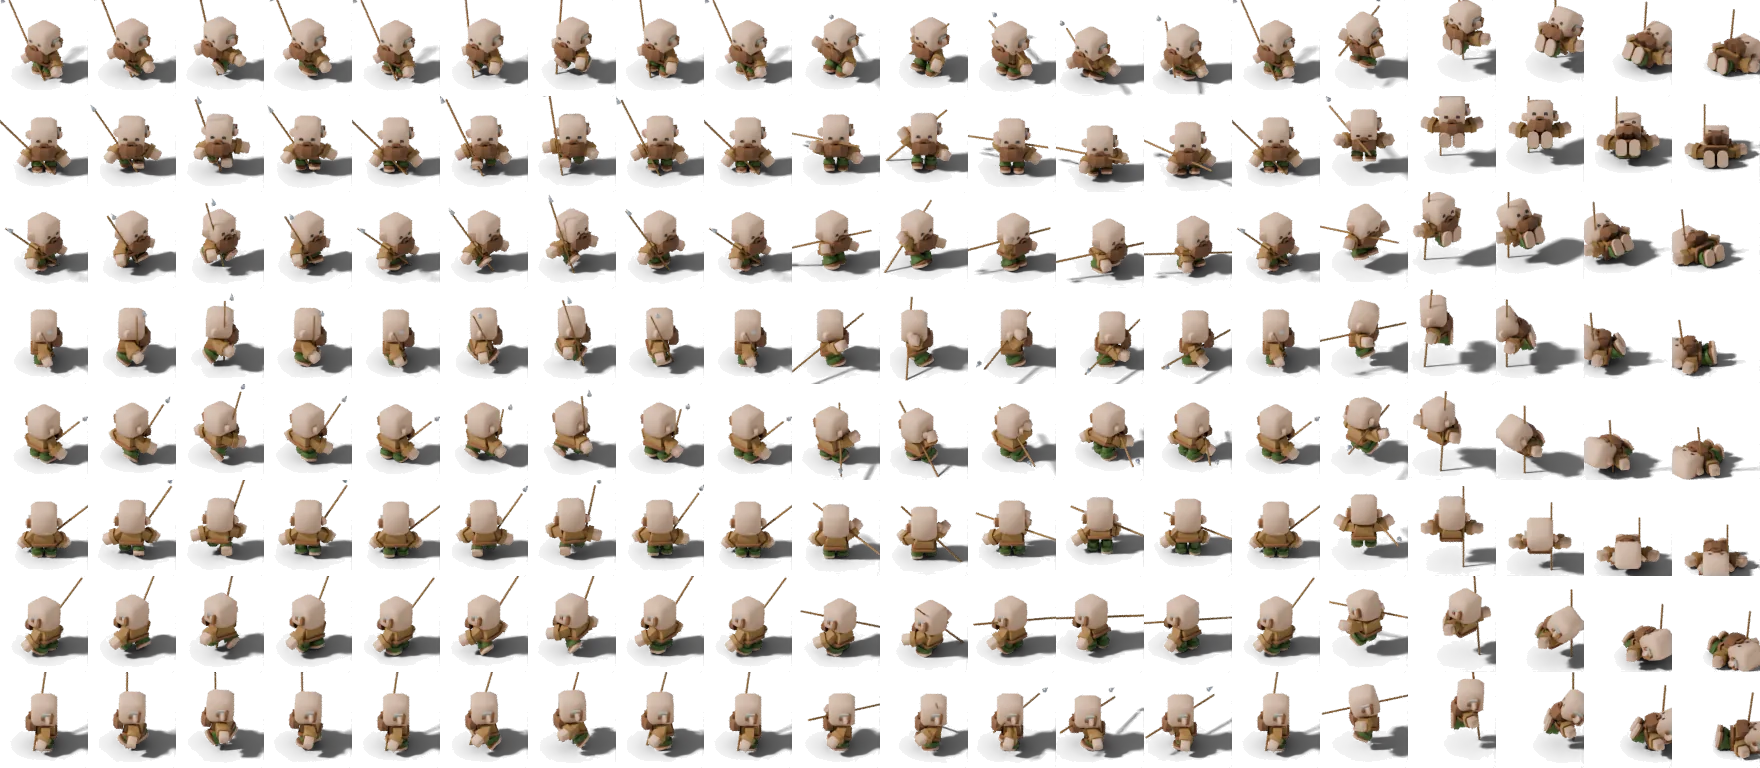
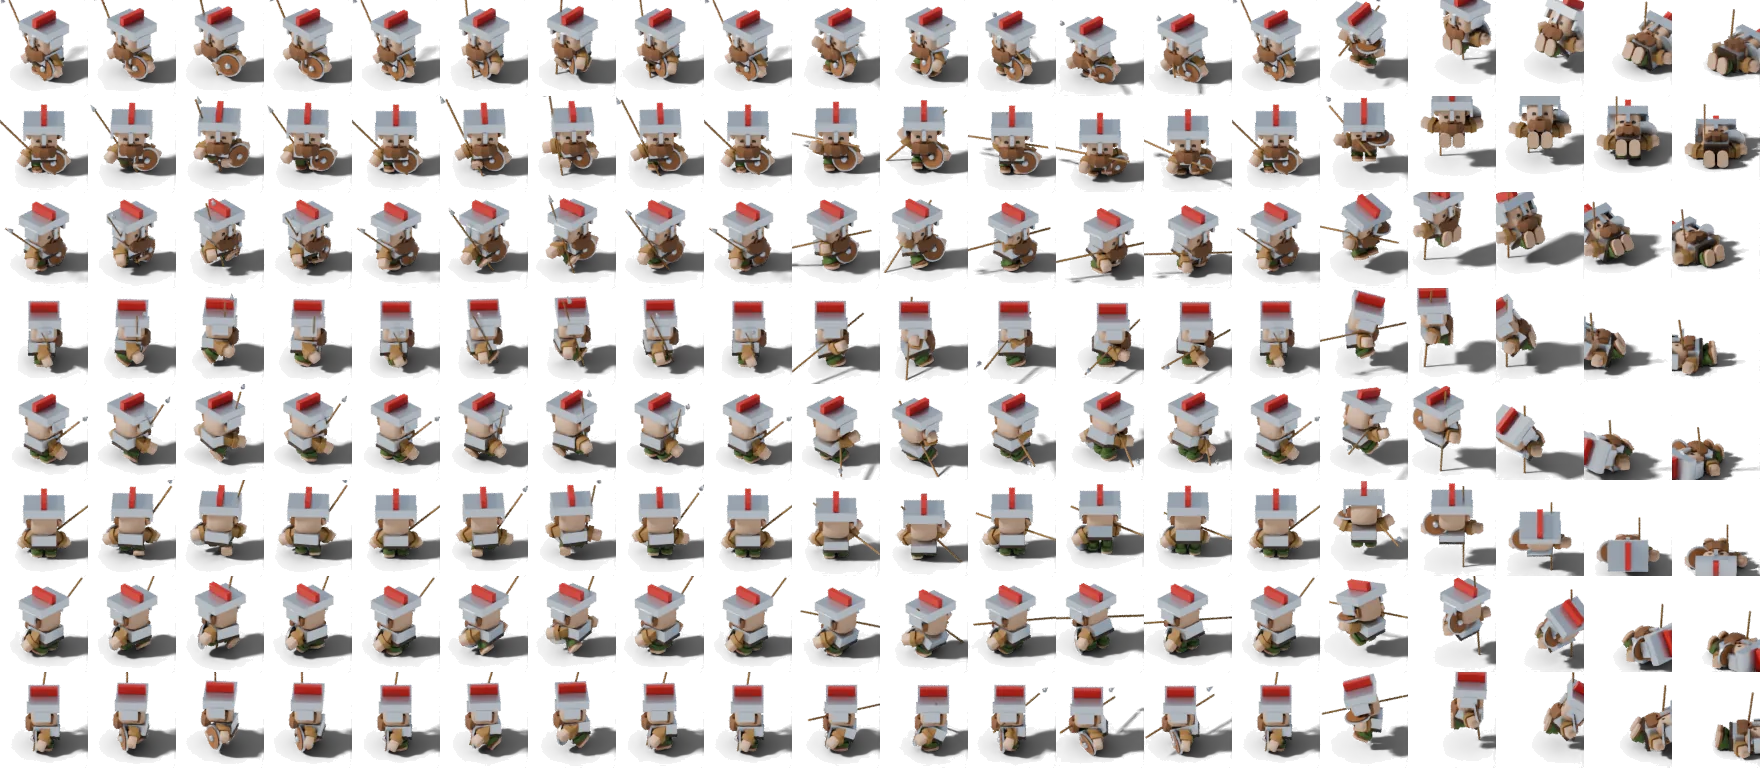
Soldiers look like soldiers
Soldiers used the workers' models with only a weapon in hand, so they
were hard to pick out. Swordsmen and spearmen now wear a steel helmet
with a red crest, nose and cheek guards, a steel breastplate and belt,
and carry a round wooden shield with a steel rim; bowmen wear a leather
cap with a feather and a leather jerkin, with a quiver on the back. All
four peoples, re-rendered soldier sheets only (+0.47 MB).

diff --git a/art/blender/settlers.py b/art/blender/settlers.py
@@ -88,6 +88,44 @@ def hand_tool(s, tool, x, y, z):
     return [handle] + heads
 
 
+def soldier_gear(s, arm, look):
+    """What makes a soldier read as one beside the workers: a helmet with a crest, a breastplate and belt, a round
+    shield on the off arm for swordsmen and spearmen, and for bowmen a leather cap and jerkin with a quiver on the
+    back. Sizes follow the kit's blocky characters (head about 0.45 wide, top at 0.68; torso 0.18 to 0.34;
+    facing -Y)."""
+    steel = s.mat('armour', 'b4b9be', rough=0.32, metal=0.85)
+    leather = s.mat('leather', '6b4a2b', rough=0.75)
+    crest = s.mat('crest', 'b3261e', rough=0.6)
+    wood = s.mat('shield-wood', '6e4626', rough=0.7, wave=14, stretch=(1, 1, 1))
+    is_bow = look == 'bowman'
+    cap = leather if is_bow else steel
+    # Helmet: a square cap over the top of the kit's square head, cheek guards, and for the foot soldiers a nose
+    # guard and a crest running front to back.
+    head = [s.box(0, 0.0, 0.595, 0.49, 0.38, 0.115, cap),
+            s.box(0.238, -0.02, 0.47, 0.03, 0.2, 0.14, cap), s.box(-0.238, -0.02, 0.47, 0.03, 0.2, 0.14, cap)]
+    if is_bow:
+        head.append(s.box(0.2, 0.06, 0.70, 0.025, 0.04, 0.17, s.mat('feather', '4f9a3a', rough=0.6)))
+    else:
+        head.append(s.box(0, -0.195, 0.46, 0.05, 0.03, 0.14, steel))
+        head.append(s.box(0, 0.0, 0.715, 0.07, 0.34, 0.1, crest))
+    attach(s, head, arm, 'head')
+    # Body: a breastplate (a jerkin for bowmen) over the tunic, and a belt.
+    body = [s.box(0, 0.028, 0.185, 0.3, 0.32, 0.16, leather if is_bow else steel),
+            s.box(0, 0.028, 0.165, 0.31, 0.33, 0.04, s.mat('belt', '3a2a1a', rough=0.7))]
+    if is_bow:
+        quiver = s.cyl(0.08, 0.21, 0.12, 0.055, 0.32, leather, 12, rot=(math.radians(18), math.radians(-12), 0))
+        arrows = [s.box(0.08 + dx, 0.255, 0.43, 0.02, 0.02, 0.07, s.mat('fletch', 'e8e2d2', rough=0.6)) for dx in (-0.025, 0.0, 0.025)]
+        body += [quiver] + arrows
+    attach(s, body, arm, 'torso')
+    if not is_bow:
+        # A round shield on the left forearm, held forward: wood with a steel rim and a boss.
+        face = (math.radians(90), 0, 0)
+        sh = [s.cyl(0.2, -0.1, 0.0, 0.16, 0.022, steel, 28, rot=face), s.cyl(0.2, -0.113, 0.0, 0.142, 0.024, wood, 28, rot=face),
+              s.sphere(0.2, -0.13, 0.0, 0.04, steel)]
+        for o in sh: o.location.z = 0.21
+        attach(s, sh, arm, 'arm-left')
+
+
 def build(race, look):
     model, tool, anims = LOOKS[look]
     s = Scene(race)
@@ -114,9 +152,7 @@ def build(race, look):
     elif tool:
         props = hand_tool(s, tool, hx, hy, hz)
     if look in SOLDIERS:
-        head = arm.matrix_world @ arm.data.bones['head'].head_local
-        helm = s.sphere(head.x, head.y, head.z + 0.17, 0.13, s.mat('helmet', '8a8d90', rough=0.35, metal=0.7), 0.75)
-        attach(s, [helm], arm, 'head')
+        soldier_gear(s, arm, look)
     if props: attach(s, [o for o in props if o.parent is None], arm, 'arm-left' if tool == 'bow' else 'arm-right')
     arm.scale = (SCALE, SCALE, SCALE)
     actions = {a.name.split('_')[0]: a for a in bpy.data.actions}

diff --git a/docs/game-design.md b/docs/game-design.md
@@ -203,6 +203,7 @@ The map shows what the simulation holds, so a player can read the settlement wit
 - **Demolishing your own tower keeps its land:** the land it held stays yours, like land pioneers claimed, until an enemy tower takes it. A tower captured or destroyed by the enemy loses its land as before.
 - **Goods traffic:** a selected building's card shows what is arriving and what is leaving, and on the map the carriers bringing it goods have a green ring, those coming to take goods away an orange one.
 - **Carried goods** are drawn large enough to tell what each carrier and donkey carries.
+- **Soldiers look like soldiers:** a steel helmet with a red crest, nose and cheek guards, a steel breastplate and belt, and a round wooden shield with a steel rim on the left arm for swordsmen and spearmen; bowmen wear a leather cap with a feather and a leather jerkin, with a quiver on the back. Workers wear none of this, so soldiers stand out among them at a glance.
 - **Work shows:** woodcutters, builders, stonecutters and geologists swing their tool; diggers, pioneers and farmers bend down to dig, sow and plant. Tools are drawn half again as large as life so they read at normal zoom.
 - **Mills turn their sails** while the miller grinds.
 - **Smoke** rises from workshops with a fire while their worker is at work.
